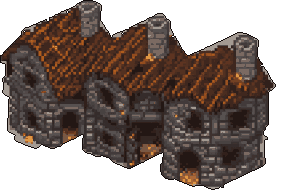
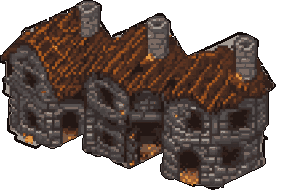
Etiketler çatının üstüne, geçişte eski görsel tonu korunur, yıkık görsellerde gri hâle ve kış turuncusu temizlendi
- kale.js / yapilar.js: bina etiketleri çatıyı örtmeyecek şekilde binanın üst kenarına
- varyant.js: çapraz geçiş görseli eski tonunu alır (gece seviye atlarken parlamıyordu)
- varyant/{demirci,yayci,duvarci,ev}3_yikik(+_karli): siluet içindeki açık gri hâle koyu kontura (uretim/kenar_gri_sil.py)
- varyant/*3_yikik_karli: bina dibindeki sıcak turuncu lekeler soğutuldu (uretim/kis_turuncu_sogut.py)

Claude-Session: https://claude.ai/code/session_01UDmPYyAuKDS6r7CGECjndN

diff --git a/motor-deneme-5b8e2f/js/kale.js b/motor-deneme-5b8e2f/js/kale.js
@@ -88,7 +88,7 @@ class KaleSahnesi extends Phaser.Scene {
       .setPosition(m.x * O, m.y * O).setDepth(this.derinlik(m.dipY * O, m.disari));
     const B = BINALAR[k], b = this.E.bina[k];
     const yazi = k === 'ev' ? `${B.ad}  ${this.E.nufus}/${this.E.barinak}` : `${B.ad}  ${b.isci}/${this.E.yerSayisi(k)}`;
-    this.etiket[k].setText(yazi).setPosition(m.merkez[0] * O, Math.max(96, m.y * O + 30));
+    this.etiket[k].setText(yazi).setPosition(m.merkez[0] * O, Math.max(96, m.y * O + 6));
   }
   // Çizim sırası: ekranda aşağıda olan önde. Sur dışı her zaman ön surun önünde.
   derinlik(y, disari) { return (disari ? 30 : 10) + y / 2000; }

diff --git a/motor-deneme-5b8e2f/js/yapilar.js b/motor-deneme-5b8e2f/js/yapilar.js
@@ -102,7 +102,7 @@ const Yapilar = {
         .on('pointerdown', () => sahne.sec(k));
       // Ad binanın üstüne yazılır (kışla eskiden oduncunun altında kaldığı için alta yazılıyordu)
       const alta = false;
-      sahne.etiket[k] = sahne.add.text(sp.x - (alta ? 40 : 0), alta ? sp.y + 6 : sp.y - sp.displayHeight + 24, '',
+      sahne.etiket[k] = sahne.add.text(sp.x - (alta ? 40 : 0), alta ? sp.y + 6 : sp.y - sp.displayHeight + 2, '',
         stil('govde', DOKUNMATIK ? 28 : 22, { fontStyle: 'bold', backgroundColor: '#1a1410cc', padding: { x: 8, y: 3 } }))
         .setOrigin(0.5, alta ? 0 : 1).setDepth(90);
     }

diff --git a/motor-deneme-5b8e2f/js/varyant.js b/motor-deneme-5b8e2f/js/varyant.js
@@ -115,6 +115,7 @@ const Varyant = {
     if (!eski || eski === '__MISSING' || !sp.visible || !sahne.sys.isActive()) { sp.setTexture(yeni); this.tonla(sahne, sp, yeni); return; }
     const hayalet = sahne.add.image(sp.x, sp.y, eski).setOrigin(sp.originX, sp.originY)
       .setScale(sp.scaleX, sp.scaleY).setDepth(sp.depth + 0.001);
+    if (sp.isTinted) hayalet.setTint(sp.tintTopLeft); // geçişte eski görsel eski tonunu korur (gece parlamasın)
     sp.setTexture(yeni);
     this.tonla(sahne, sp, yeni);
     sahne.tweens.add({ targets: hayalet, alpha: 0, duration: VARYANT_AYAR.gecisMs, onComplete: () => hayalet.destroy() });

diff --git a/motor-deneme-5b8e2f/uretim/kenar_gri_sil.py b/motor-deneme-5b8e2f/uretim/kenar_gri_sil.py
@@ -1,0 +1,20 @@
+# Yıkık varyantların siluetinde dış koyu çizginin hemen içinde kalan açık gri hâleyi
+# (üretimden kalan arka plan artığı) koyu kontur rengine çevirir. Kar (çok açık) korunur.
+import sys
+import numpy as np
+from PIL import Image
+for yol in sys.argv[1:]:
+    a = np.array(Image.open(yol).convert('RGBA')).astype(int)
+    op = a[..., 3] > 0
+    def halka(m): return m & ~(np.roll(m, 1, 0) & np.roll(m, -1, 0) & np.roll(m, 1, 1) & np.roll(m, -1, 1))
+    h1 = halka(op); ic = op & ~h1
+    toplam = 0
+    koyu = np.median(a[h1][:, :3], axis=0)
+    for _ in range(2):                       # 2. ve 3. halka
+        h = halka(ic)
+        px = a[..., :3]; lum = px.mean(2); sat = px.max(2) - px.min(2)
+        gri = h & (lum > 110) & (lum < 212) & (sat < 45)
+        a[gri, :3] = koyu
+        toplam += int(gri.sum()); ic = ic & ~h
+    Image.fromarray(a.astype(np.uint8)).save(yol)
+    print(yol, toplam)

diff --git a/motor-deneme-5b8e2f/uretim/kis_turuncu_sogut.py b/motor-deneme-5b8e2f/uretim/kis_turuncu_sogut.py
@@ -1,0 +1,17 @@
+# Kış yıkık görsellerinde bina dibindeki sıcak turuncu toprak/kor lekelerini soğutur
+# (alt %40'taki doygun turuncu pikseller: doygunluk düşer, hafif mavi-gri).
+import sys, colorsys
+import numpy as np
+from PIL import Image
+for yol in sys.argv[1:]:
+    a = np.array(Image.open(yol).convert('RGBA')).astype(float)
+    H = a.shape[0]; n = 0
+    for y in range(int(H * 0.6), H):
+        for x in range(a.shape[1]):
+            r, g, b, al = a[y, x]
+            if al == 0: continue
+            h, s, v = colorsys.rgb_to_hsv(r/255, g/255, b/255)
+            if 0.03 < h < 0.15 and s > 0.45 and v > 0.3:
+                l = (r + g + b) / 3
+                a[y, x, :3] = np.clip([l + (r-l)*0.3 - 4, l + (g-l)*0.3, l + (b-l)*0.3 + 8], 0, 255); n += 1
+    Image.fromarray(a.astype(np.uint8)).save(yol); print(yol, n)
